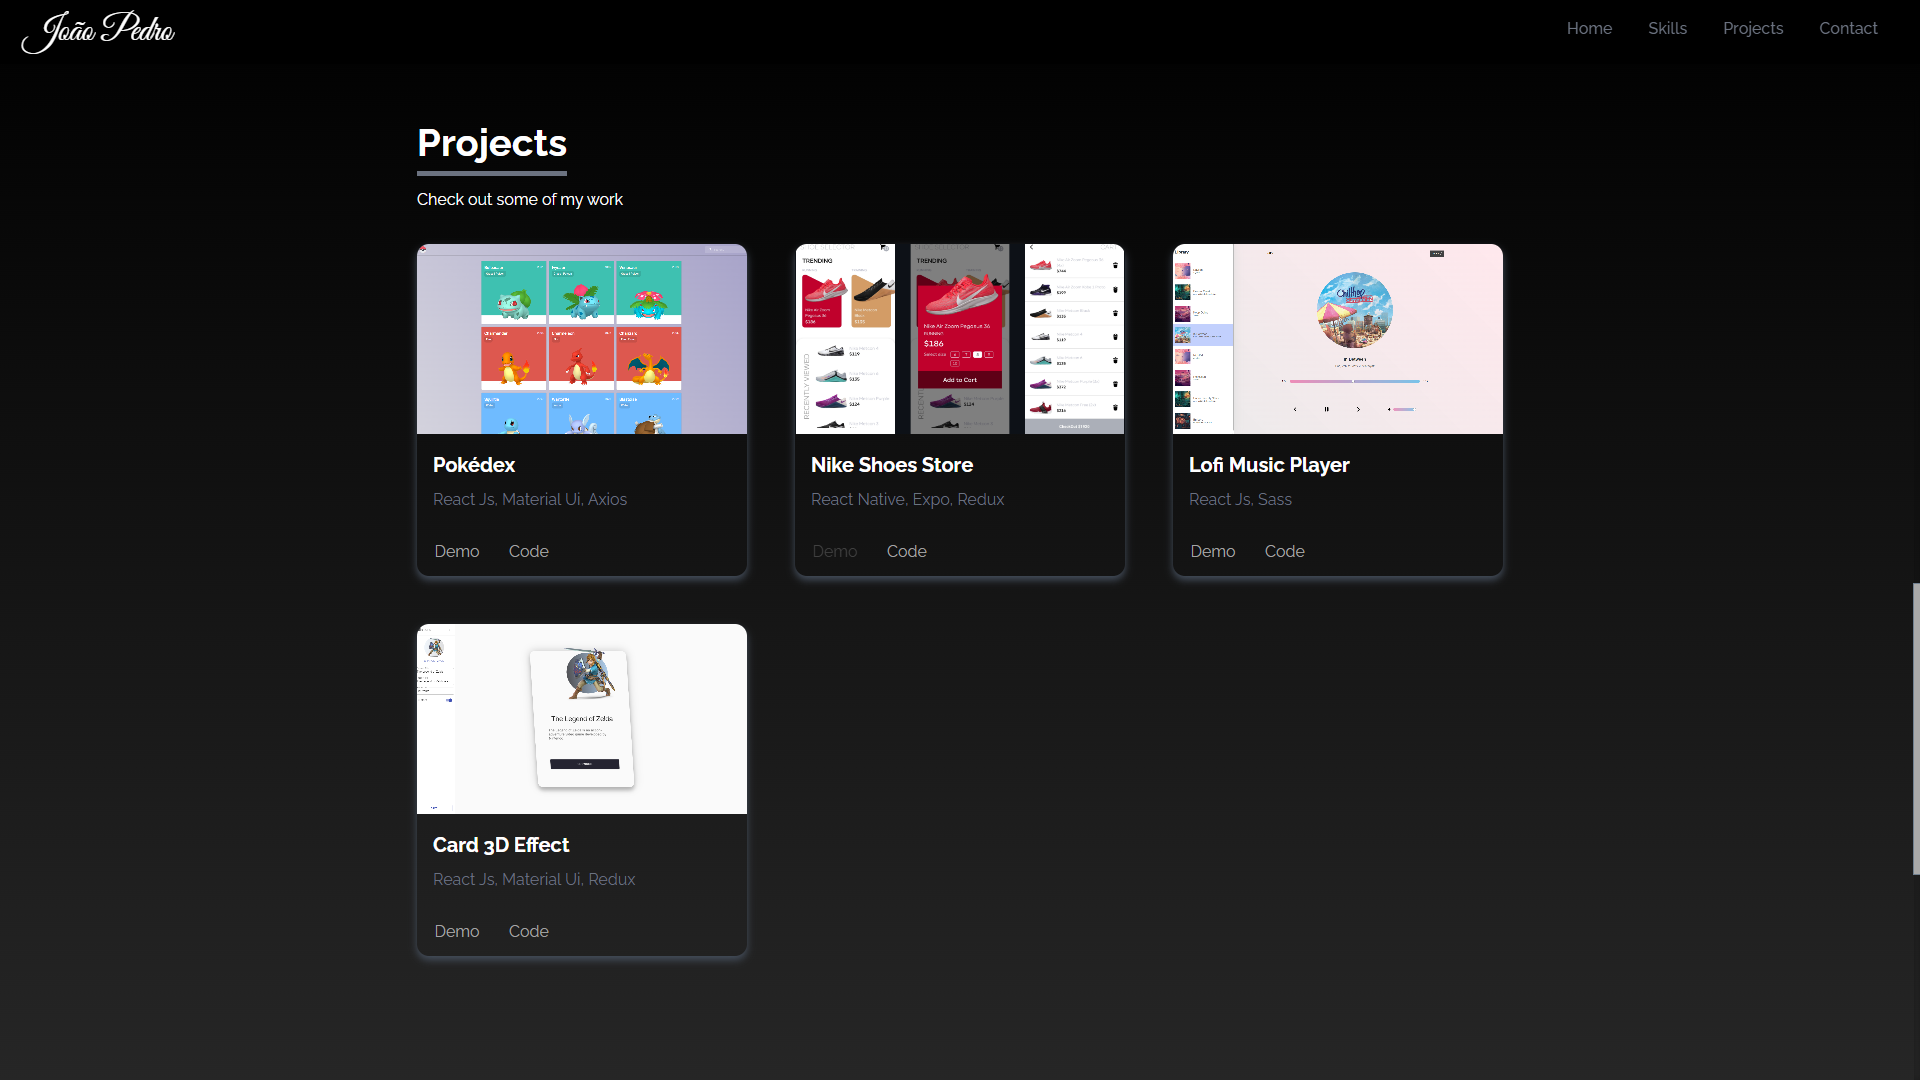
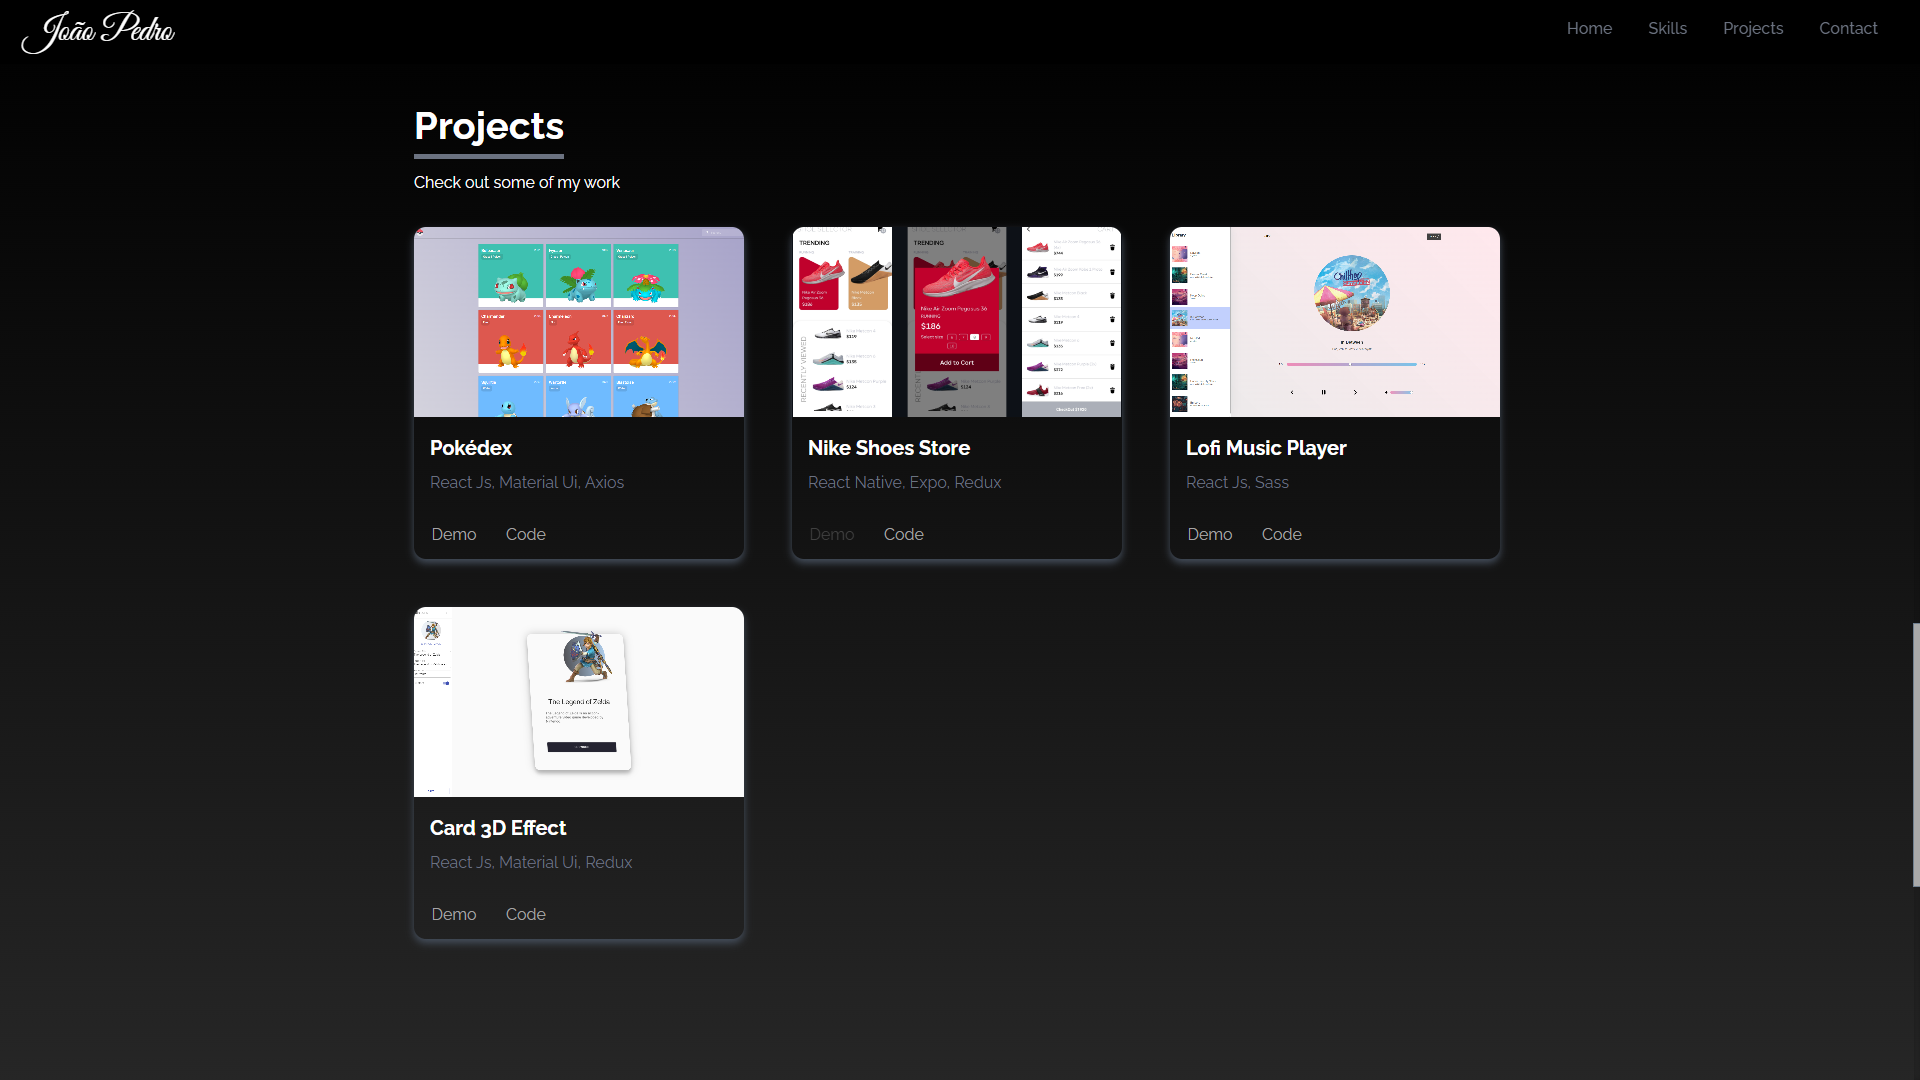
update

Changed region(s): [[0.2188, 0.0917, 0.7812, 0.9167], [0.9688, 0.55, 1.0, 0.5806]]

diff --git a/src/views/Home.js b/src/views/Home.js
@@ -8,9 +8,12 @@ const useStyles = makeStyles((theme) => ({
   mainBox: {
     display: "flex",
     height: "90vh",
-    minHeight: "800px",
+    minHeight: "750px",
     alignItems: "center",
     justifyContent: "center",
+    [theme.breakpoints.down("sm")]: {
+      marginTop: "-1.1rem",
+    },
   },
   infos: {
     display: "flex",
@@ -27,7 +30,11 @@ const useStyles = makeStyles((theme) => ({
     animation: "$MoveUpDown 8s infinite",
     width: "40%",
     [theme.breakpoints.down("md")]: {
-      marginTop: "0.5rem",
+      marginTop: "4rem",
+      width: "71%",
+    },
+    [theme.breakpoints.down("sm")]: {
+      marginTop: "0",
       width: "80%",
     },
   },
@@ -42,6 +49,7 @@ const useStyles = makeStyles((theme) => ({
     height: 40.5,
     "&:hover": {
       opacity: 0.8,
+      color: "#fff",
     },
   },
   buttonText: {
@@ -112,7 +120,14 @@ const Home = () => {
             I always try to improve my skills and use design patterns.
           </Typography>
         </Box>
-        <Link to="projects" smooth offset={75} duration={500}>
+        <Link
+          to="projects"
+          smooth
+          offset={75}
+          duration={500}
+          spy={true}
+          containerId="containerElement"
+        >
           <Button variant="contained" className={classes.button}>
             <Typography className={classes.buttonText}>Projects</Typography>
           </Button>

diff --git a/src/components/Navbar.js b/src/components/Navbar.js
@@ -8,12 +8,8 @@ import { Link } from "react-scroll";
 const useStyles = makeStyles((theme) => ({
   textLink: {
     textTransform: "none",
-    color: "#6b7280",
     paddingRight: "10px",
     paddingLeft: "10px",
-    "&:hover": {
-      color: "#fff",
-    },
   },
   mainBox: {
     display: "flex",
@@ -46,8 +42,23 @@ const Navbar = () => {
               João Pedro
             </Typography>
             {headerLinks.map(({ id, link, offset }) => (
-              <Link key={id} to={link} smooth offset={offset} duration={500}>
-                <Button>
+              <Link
+                key={id}
+                to={link}
+                smooth
+                offset={offset}
+                duration={500}
+                spy={true}
+                containerId="containerElement"
+              >
+                <Button
+                  sx={{
+                    color: "#6b7280",
+                    "&:hover": {
+                      color: "#fff",
+                    },
+                  }}
+                >
                   <Typography variant="h5" className={classes.textLink}>
                     {firstLetterUpperCase(link)}
                   </Typography>

diff --git a/src/styles/index.js b/src/styles/index.js
@@ -24,21 +24,19 @@ const useStyles = makeStyles((theme) =>
         "-moz-osx-font-smoothing": "grayscale",
         height: "100%",
         width: "100%",
-        overflowX: "hidden",
       },
       body: {
         margin: "0px",
         color: "#fff",
         background:
           "linear-gradient(180deg, rgba(0,0,0,1) 0%, rgba(38,38,38,1) 100%)",
-        backgroundAttachment: "fixed",
         width: "100%",
+        height: "100%",
         "--type-first": "Helvetica, Arial, sans-serif",
         fontFamily: "var(--type-first)",
-        paddingTop: "5.5rem",
-        overflow: "overlay",
+        paddingTop: "4rem",
         [theme.breakpoints.down("sm")]: {
-          paddingTop: "0.7rem",
+          paddingTop: "3.5rem",
         },
       },
       a: {

diff --git a/src/layouts/index.js b/src/layouts/index.js
@@ -34,20 +34,18 @@ const MainLayout = () => {
   const classes = useStyles();
 
   return (
-    <>
-      <Box className={classes.root}>
-        <Box className={classes.content}>
-          <Navbar />
-          <Home />
-          <Box className={classes.about}>
-            <Skills />
-            <Projects />
-            <Contact />
-          </Box>
+    <Box className={classes.root}>
+      <Box className={classes.content} id="containerElement">
+        <Navbar />
+        <Home />
+        <Box className={classes.about}>
+          <Skills />
+          <Projects />
+          <Contact />
         </Box>
+        <Footer />
       </Box>
-      <Footer />
-    </>
+    </Box>
   );
 };
 

diff --git a/src/views/Skills.js b/src/views/Skills.js
@@ -9,11 +9,12 @@ const useStyles = makeStyles((theme) => ({
     display: "flex",
     flexDirection: "column",
     alignItems: "flex-start",
+    marginTop: "1.15rem",
     [theme.breakpoints.down("md")]: {
       marginTop: "5rem",
     },
     [theme.breakpoints.down("sm")]: {
-      marginTop: "0.3rem",
+      marginTop: "0rem",
     },
   },
   titleBorder: {

diff --git a/src/data/index.js b/src/data/index.js
@@ -29,17 +29,17 @@ export const headerLinks = [
   {
     id: 2,
     link: "skills",
-    offset: -75,
+    offset: -15,
   },
   {
     id: 3,
     link: "projects",
-    offset: 75,
+    offset: 145,
   },
   {
     id: 4,
     link: "contact",
-    offset: 0,
+    offset: 150,
   },
 ];
 
